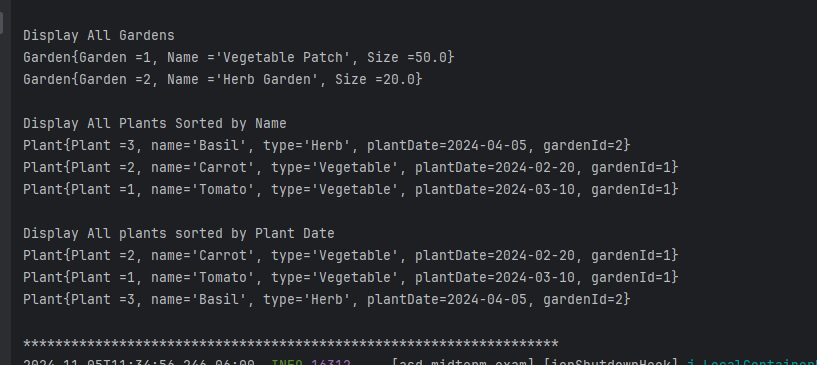
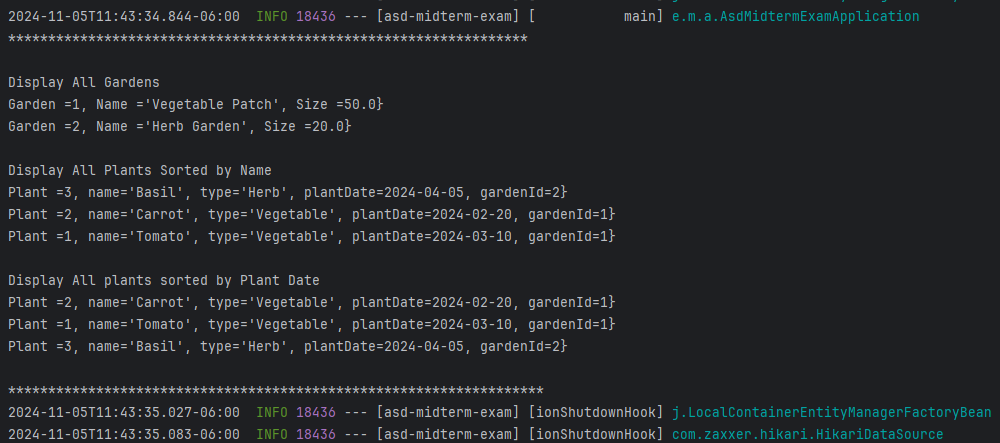
Updated project

diff --git a/src/main/java/edu/miu/asdmidtermexam/model/Plant.java b/src/main/java/edu/miu/asdmidtermexam/model/Plant.java
@@ -34,8 +34,7 @@ public class Plant {
 
     @Override
     public String toString() {
-        return "Plant{" +
-                "Plant =" + plantId +
+        return "Plant =" + plantId +
                 ", name='" + name + '\'' +
                 ", type='" + type + '\'' +
                 ", plantDate=" + plantDate +

diff --git a/src/main/java/edu/miu/asdmidtermexam/model/Garden.java b/src/main/java/edu/miu/asdmidtermexam/model/Garden.java
@@ -35,8 +35,7 @@ public class Garden {
 
     @Override
     public String toString() {
-        return "Garden{" +
-                "Garden =" + gardenId +
+        return "Garden =" + gardenId +
                 ", Name ='" + name + '\'' +
                 ", Size =" + size +
                 '}';
